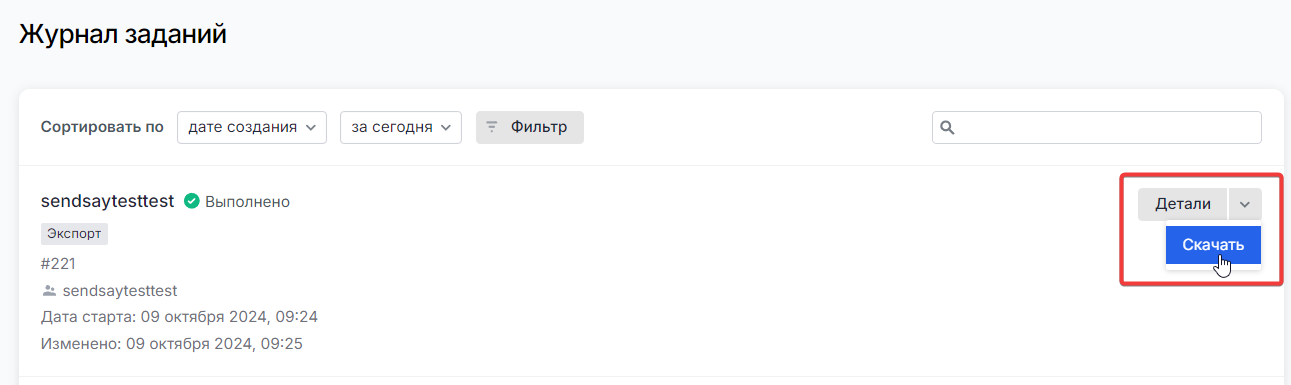
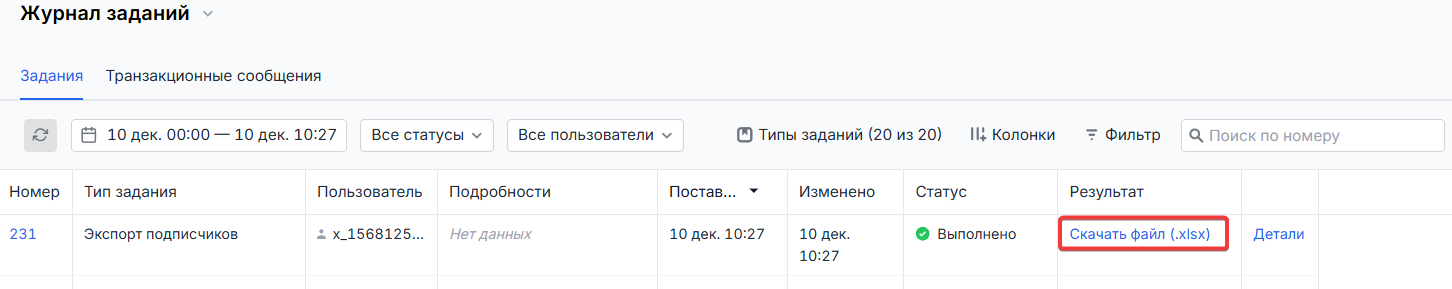
fix (sendsay-docs): fix how-to-import-subscribers

diff --git a/docs/subscribers/import-and-export/how-to-import-subscribers.md b/docs/subscribers/import-and-export/how-to-import-subscribers.md
@@ -109,9 +109,13 @@ pochta2@gmail.com, , Фёдоров, , 1980-10-18
 
 ## Отчёт с результатами импорта в Журнале заданий
 
-Отчёт об импорте можно посмотреть в **[Журнале заданий](https://app.sendsay.ru/queue)**: для этого наведите курсор на область рядом с названием импорта. А чтобы открыть полный отчёт, нажмите на кнопку «Детали»:
+Отчёт об импорте можно посмотреть в **[Журнале заданий](https://app.sendsay.ru/queue)**: для этого дождитесь окончания импорта и нажмите на появившуюся подсказку.
 
-![Import report](/img/subscribers/import-and-export/how-to-import-subscribers/import-report.jpg)
+![Report help](/img/subscribers/import-and-export/how-to-import-subscribers/report-help.png)
+
+Чтобы открыть отчёт, нажмите «Детали»:
+
+![Import report](/img/subscribers/import-and-export/how-to-import-subscribers/import-report.png)
 
 Откроется всплывающее окно, где во вкладке **Детали** выводятся данные о результатах импорта:
 
@@ -119,36 +123,37 @@ pochta2@gmail.com, , Фёдоров, , 1980-10-18
     <img src={importDetails} alt="Import Details" />
 </p>
 
-- Количество строк с данными — это общее число строк в документе, содержащих данные для импорта.
+- Строки:
 
-  - Уникальные строки — количество уникальных импортируемых контактов.
-  - Повторы основных контактов — число строк с повтором основного контакта.
+  - Количество строк с данными — это общее число строк в документе, содержащих данные для импорта.
+  - Строк с повторами — число строк с повтором основного контакта.
 
     Например, если в файле импорта есть три строки с одним и тем же email-адресом, то все три строки будут внесены в базу. Если данные (помимо основного контакта) в строках разные, то они обновятся, а если одинаковые — останутся без изменений. В отчёте же эти три строки отобразятся как повторы.
 
     Система считает повторы до внесения контактов в базу. Если в данных есть ошибка, то контакт засчитается как повтор, но не импортируется в базу.
 
-  - Строк без изменений данных — количество строк с совпадением данных из базы, в том числе при повторах контактов.
-  - Ошибки — число строк без адресов, с опечатками в адресах или с данными, которые не соответствуют формату поля — например, если в числовое поле вставлен текст.
+  - Строк с ошибками — число строк без адресов, с опечатками в адресах или с данными, которые не соответствуют формату поля — например, если в числовое поле вставлен текст. Причины ошибок можно будет увидеть в отчёте.
+    Строки с ошибками не импортируются.
+  - Принятых к импорту строк — количество строк, которые будут импортированы, без учёта ошибок.
 
-  :::tip Важно
-  Строки с ошибками не импортируются.
-  :::
+- Подписчики
 
-- Новые подписчики в базе — новые контакты, импортированные в базу. Новыми считаются только те контакты, которые были добавлены при импорте и не отсеялись из-за ошибок.
+  - Подписчики, у которых импортированные данные совпали с данными из базы — количество подписчиков, чьи данные уже содержатся в базе.
+  - Новые подписчики в базе — общее количество добавленных подписчиков.
 
-  Контакты импортируются в одном из [статусов](https://docs.sendsay.ru/subscribers/contacts/contact-status/):
+    Контакты импортируются в одном из [статусов](https://docs.sendsay.ru/subscribers/contacts/contact-status/):
 
-  - **Подтвержденные** — контакты, не требующие разрешения на отправку рассылок.
-  - **Неподтвержденные** — контакты, которым нельзя отправлять рассылки, пока они не подтвердят подписку.
+    - **Подтвержденные** — контакты, не требующие разрешения на отправку рассылок.
+    - **Неподтвержденные** — контакты, которым нельзя отправлять рассылки, пока они не подтвердят подписку.
 
     Неподтвержденные контакты будут недоступны для рассылок сразу после импорта. Для включения таких адресов в рассылку их нужно активировать.
 
     [Как активировать неподтверждённые адреса](https://docs.sendsay.ru/subscribers/contacts/how-to-activate-inactive-contacts/)
 
-- Подписчики, у которых обновились данные — это число контактов, чьи данные обновились благодаря импорту. Сюда же попадают повторы с обновлением данных.
+- Подписчики, у которых обновились данные — число контактов, чьи данные обновились благодаря импорту. Сюда же попадают повторы с обновлением данных.
 
-- Добавлено в список — сколько контактов фактически внесено в список при импорте после исключения всех ошибок.
+- Новых + обновлённых — общее число новых и обновлённых подписчиков.
+- В итоге добавлено в список — сколько контактов фактически внесено в список при импорте после исключения всех ошибок.
 
 :::tip Важно
 Адреса, которые добавляются в базу сверх [лимита](https://app.sendsay.ru/billing/plans) по используемому тарифу, попадут в ошибки импорта или загрузятся как неподтвержденные.
@@ -156,7 +161,7 @@ pochta2@gmail.com, , Фёдоров, , 1980-10-18
 Посмотреть доступные тарифы и узнать о лимитах можно в [калькуляторе тарифов](https://sendsay.ru/rates).
 :::
 
-Во вкладке **Детали** также можно посмотреть адреса и причины ошибок импорта, а также скачать отчёт в формате .csv. Во вкладке **Ответ сервера** выводятся данные отчёта в виде ответов API.
+В окне с результатами импорта можно скачать отчёт в одном из форматов: XLSX, CSV или JSON. Во вкладке **Ответ API** выводятся данные отчёта в виде ответа от API.
 
 **Читайте также:** <br/>
 [Как настроить автоматический импорт из файла по расписанию](https://docs.sendsay.ru/automations/autoimport/how-to-set-autoimport/)<br/>

diff --git a/docs/subscribers/contacts/how-to-restore-deleted-contacts.md b/docs/subscribers/contacts/how-to-restore-deleted-contacts.md
@@ -11,8 +11,8 @@ sidebar_label: 'Как восстановить контакты'
 
 1. Зайдите в раздел **Статистика** и откройте рассылку, в которой участвовали удалённые контакты.
 2. Откройте вкладку **Доставка** (вариант сортировки «По подписчикам») — там хранятся контакты получателей.
-3. Нажмите на три точки в правом верхнем углу и выберите формат для экспорта (.xlsx или .csv).
-4. Зайдите в журнал заданий — там появилось задание «Запрос статистики». Откройте выпадающее меню напротив него и выберите «Загрузить».
+3. Нажмите на кнопку «Экспорт и выберите формат для экспорта (.xlsx или .csv).
+4. Зайдите в [Журнал заданий](https://app.sendsay.ru/queue) — там появилось задание «Запрос статистики». Нажмите на кнопку «Скачать файл» в колонке «Результат».
 5. Импортируйте этот список в базу — сервис пропустит те контакты, которые уже есть в аккаунте, и добавит только удалённые адреса.
 
 ![How to restore deleted contacts](/img/subscribers/contacts\how-to-restore-deleted-contacts/how-to-restore-deleted-contacts.gif) <br/>
